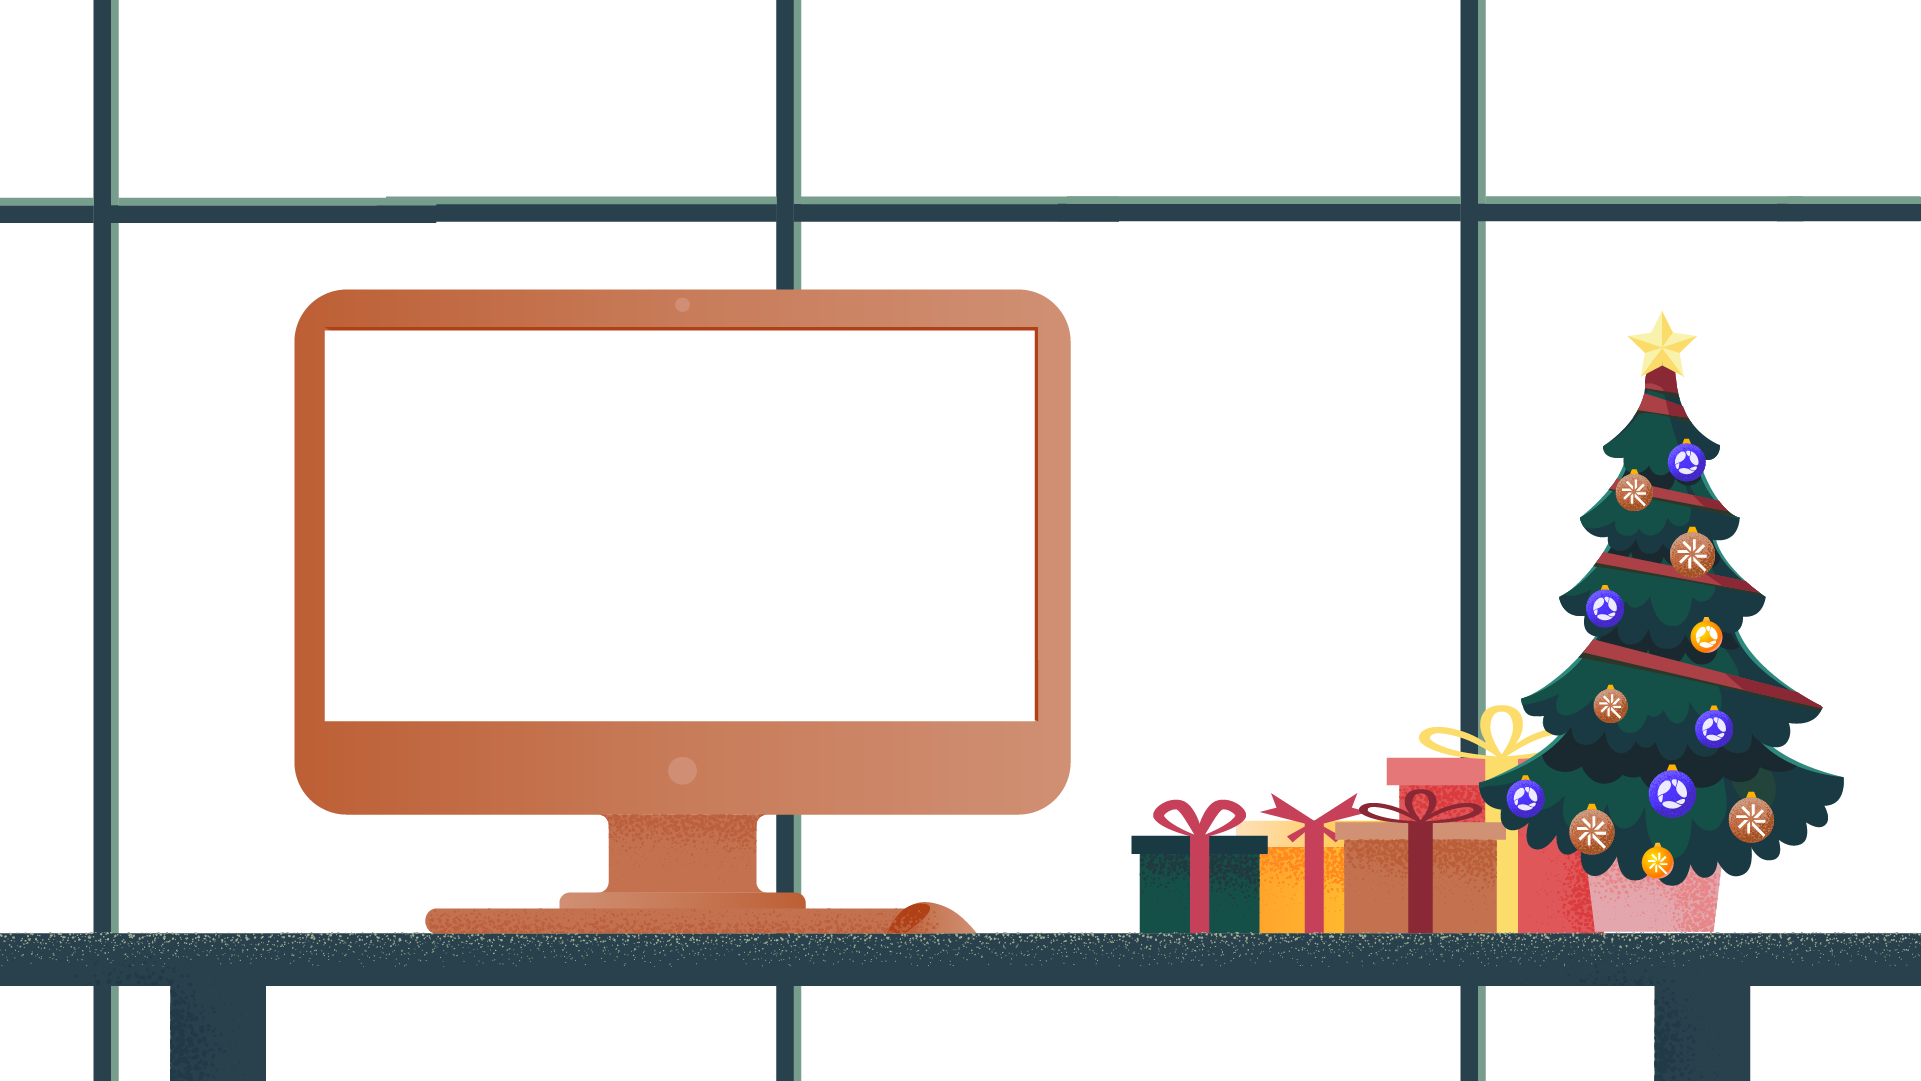
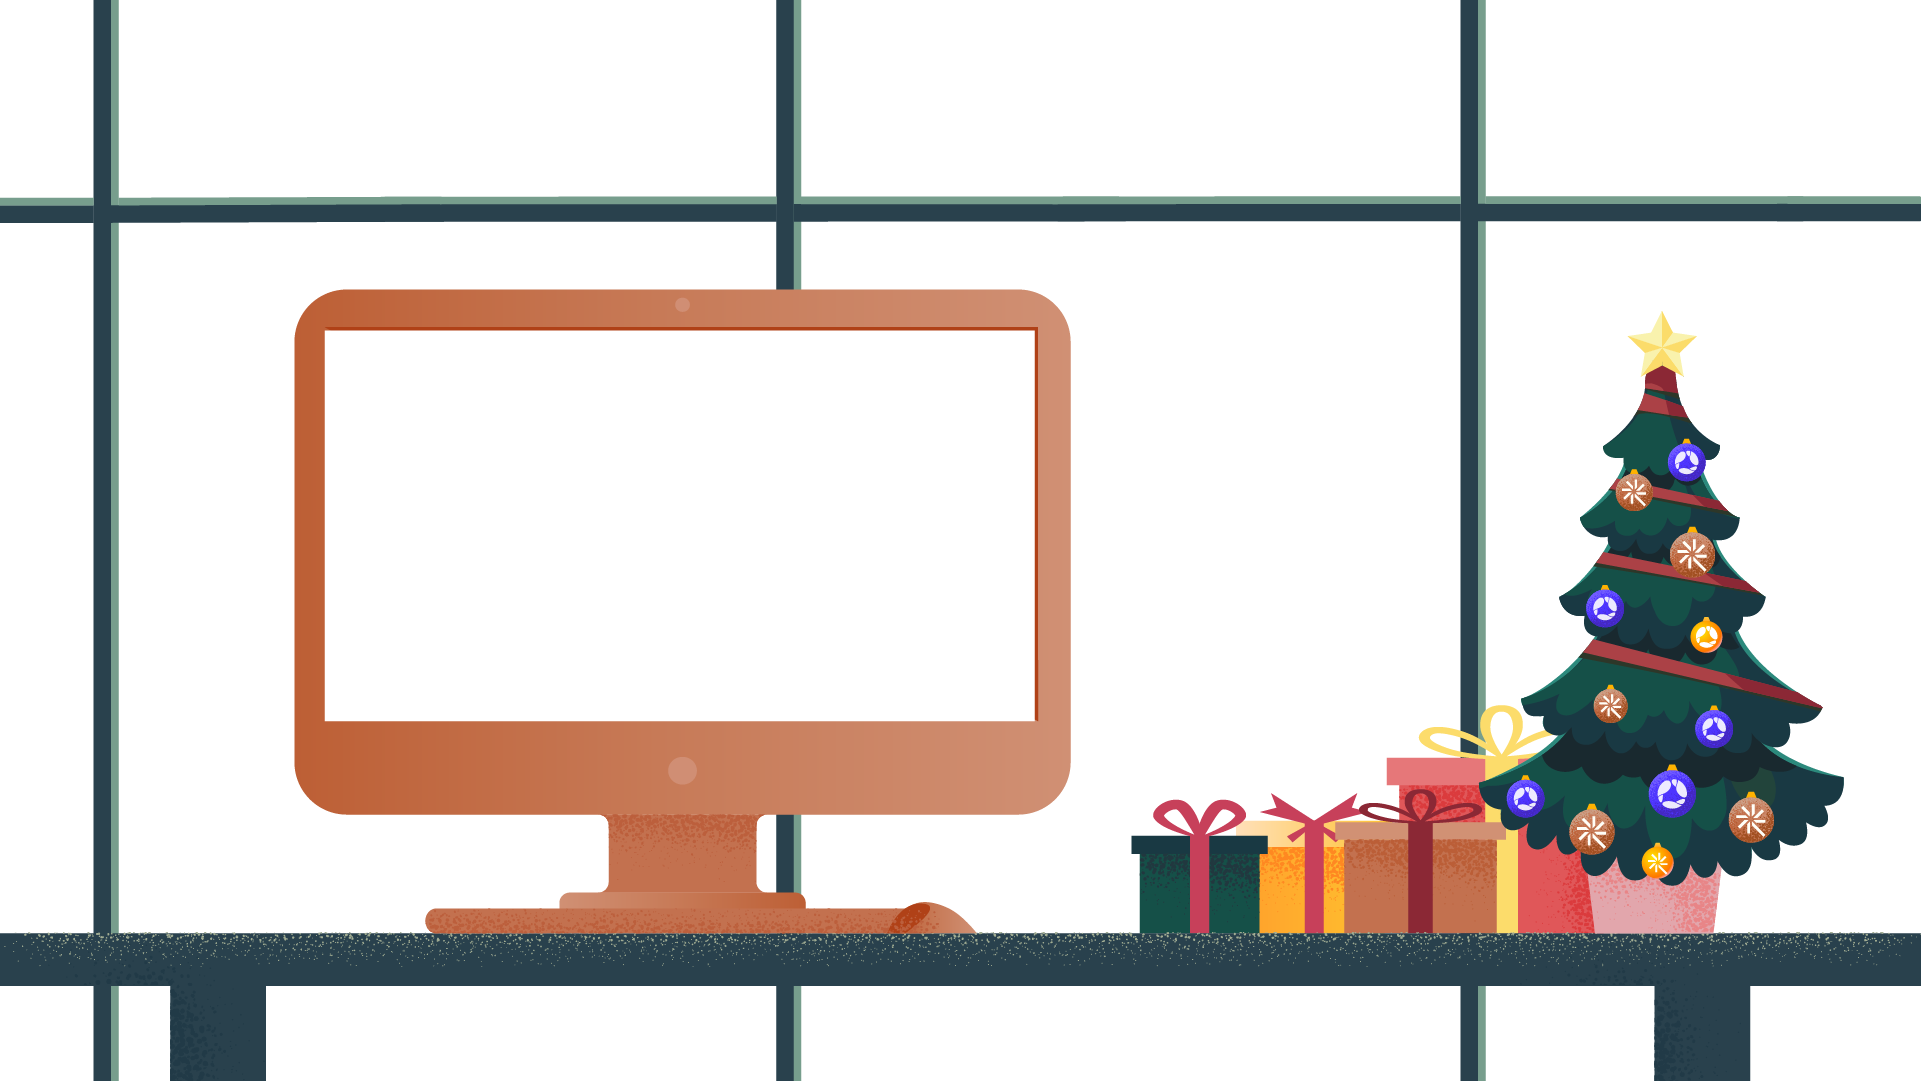
update gradients and interior png

Changed region(s): [[0.0, 0.8548, 0.9995, 0.8853]]

diff --git a/src/components/Interior/Interior.css b/src/components/Interior/Interior.css
@@ -4,12 +4,60 @@
     background-repeat: no-repeat;
     background-position: center center;
     height: 100%;
-    z-index: 0;
+    z-index: 1;
     position: relative;
 }
 
 .interior-bg {
     background-image: url("../../assets/img/background.jpg");
+}
+
+.interior-bg:after, .interior-bg:before {
+    content: ' ';
+    position: absolute;
+    width: 50%;
+    height: 100%;
+}
+
+.interior-bg:after {
+    top: 0;
+    left: 0;
+    background: linear-gradient(
+            to bottom,
+            transparent  0%,
+            transparent  18.25%,
+            #779E8D 18.25%,
+            #779E8D 18.99%,
+            #29414D 18.97%,
+            #29414D 20.65%,
+            transparent 20.40%,
+            transparent 86.40%,
+            #29414D 86.40%,
+            #29414D 91.20%,
+            transparent 91.20%,
+            #162739 100%
+    );
+}
+
+.interior-bg:before {
+    top: 0;
+    right: 0;
+    z-index: 1;
+    background: linear-gradient(
+            to bottom,
+            transparent 0%,
+            transparent 18.12%,
+            #779E8D 18.12%,
+            #779E8D 18.80%,
+            #29414D 18.90%,
+            #29414D 20.43%,
+            transparent 20.43%,
+            transparent 86.20%,
+            #29414D 86.40%,
+            #29414D 91.20%,
+            transparent 91.20%,
+            transparent 100%
+    );
 }
 
 .interior {
@@ -21,7 +69,7 @@
     background-size: 100% auto;
     background-repeat: no-repeat;
     background-position: center top;
-    z-index: 2;
+    z-index: 3;
     position: absolute;
     animation-duration: 1s;
     animation-name: lights;
@@ -30,7 +78,7 @@
     animation-direction: normal;
 }
 
-.screen {
+.monitor {
     z-index: 4;
     position: absolute;
 }
@@ -73,11 +121,11 @@
     }
 
     82.58% {
-        background-position-y: 81.75%;
+        background-position-y: 81.80%;
     }
 
     91.67% {
-        background-position-y: 90.85%;
+        background-position-y: 90.87%;
     }
 
     100% {

diff --git a/src/App.css b/src/App.css
@@ -1,58 +1,10 @@
 .app {
   width: 100vw;
   height: 100vh;
-  background: transparent;
+  background: #162739;
   position: relative;
   margin: 0;
   padding: 0;
   box-sizing: border-box;
   overflow: hidden;
-}
-
-.app:after, .app:before {
-  content: ' ';
-  position: absolute;
-  width: 50%;
-  height: 100%;
-  z-index: -1;
-}
-
-.app:after {
-  top: 0;
-  left: 0;
-  background: linear-gradient(
-          to bottom,
-          #162739 0%,
-          #162739 18.25%,
-          #779E8D 18.25%,
-          #779E8D 18.99%,
-          #29414D 18.97%,
-          #29414D 20.65%,
-          #162739 20.40%,
-          #162739 86.40%,
-          #29414D 86.40%,
-          #29414D 91.20%,
-          #162739 91.20%,
-          #162739 100%
-  );
-}
-
-.app:before {
-  top: 0;
-  right: 0;
-  background: linear-gradient(
-          to bottom,
-          #162739 0%,
-          #162739 18.12%,
-          #779E8D 18.12%,
-          #779E8D 18.80%,
-          #29414D 18.90%,
-          #29414D 20.43%,
-          #162739 20.43%,
-          #162739 86.20%,
-          #29414D 86.40%,
-          #29414D 91.20%,
-          #162739 91.20%,
-          #162739 100%
-  );
 }

diff --git a/src/components/Monitor/Monitor.tsx b/src/components/Monitor/Monitor.tsx
@@ -1,4 +1,4 @@
-import React, { FC, useRef, useState, MouseEvent  } from 'react';
+import React, { FC, useRef, useState } from 'react';
 import playImg from '../../assets/img/play.svg';
 import pauseImg from '../../assets/img/pause.svg';
 import './Monitor.css';
@@ -29,7 +29,7 @@ export const Monitor: FC = () => {
           ref={defaultPlayer}
           muted={pause}
         >
-          <source src="https://22283.live.streamtheworld.com/PRAMBORS_FM.mp3?dist=onlineradiobox"/>
+          <source src="https://avengaradio.com/listen/avenga_radio/radio.mp3"/>
         </audio>
       </figure>
     </div>

diff --git a/public/index.html b/public/index.html
@@ -4,7 +4,7 @@
     <meta charset="utf-8" />
     <link rel="icon" href="%PUBLIC_URL%/favicon.ico" />
     <meta name="viewport" content="width=device-width, initial-scale=1" />
-    <meta name="theme-color" content="#BFF0FF" />
+    <meta name="theme-color" content="#162739" />
     <meta
       name="description"
       content="Avenga radio is simple single page web app for listening songs online, broadcast podcasts or greetings from people on holidays from and for Avenga people."

diff --git a/src/components/Interior/Interior.tsx b/src/components/Interior/Interior.tsx
@@ -42,7 +42,7 @@ export const Interior: FC = () => {
       <Snowfall color="#ffffff" style={{background: 'transparent'}} snowflakeCount={700}/>
       <div className="interior">
         <div className="lights" ref={lightsElement}></div>
-        <div className="screen" ref={monitorElement}>
+        <div className="monitor" ref={monitorElement}>
           <Monitor />
         </div>
       </div>
